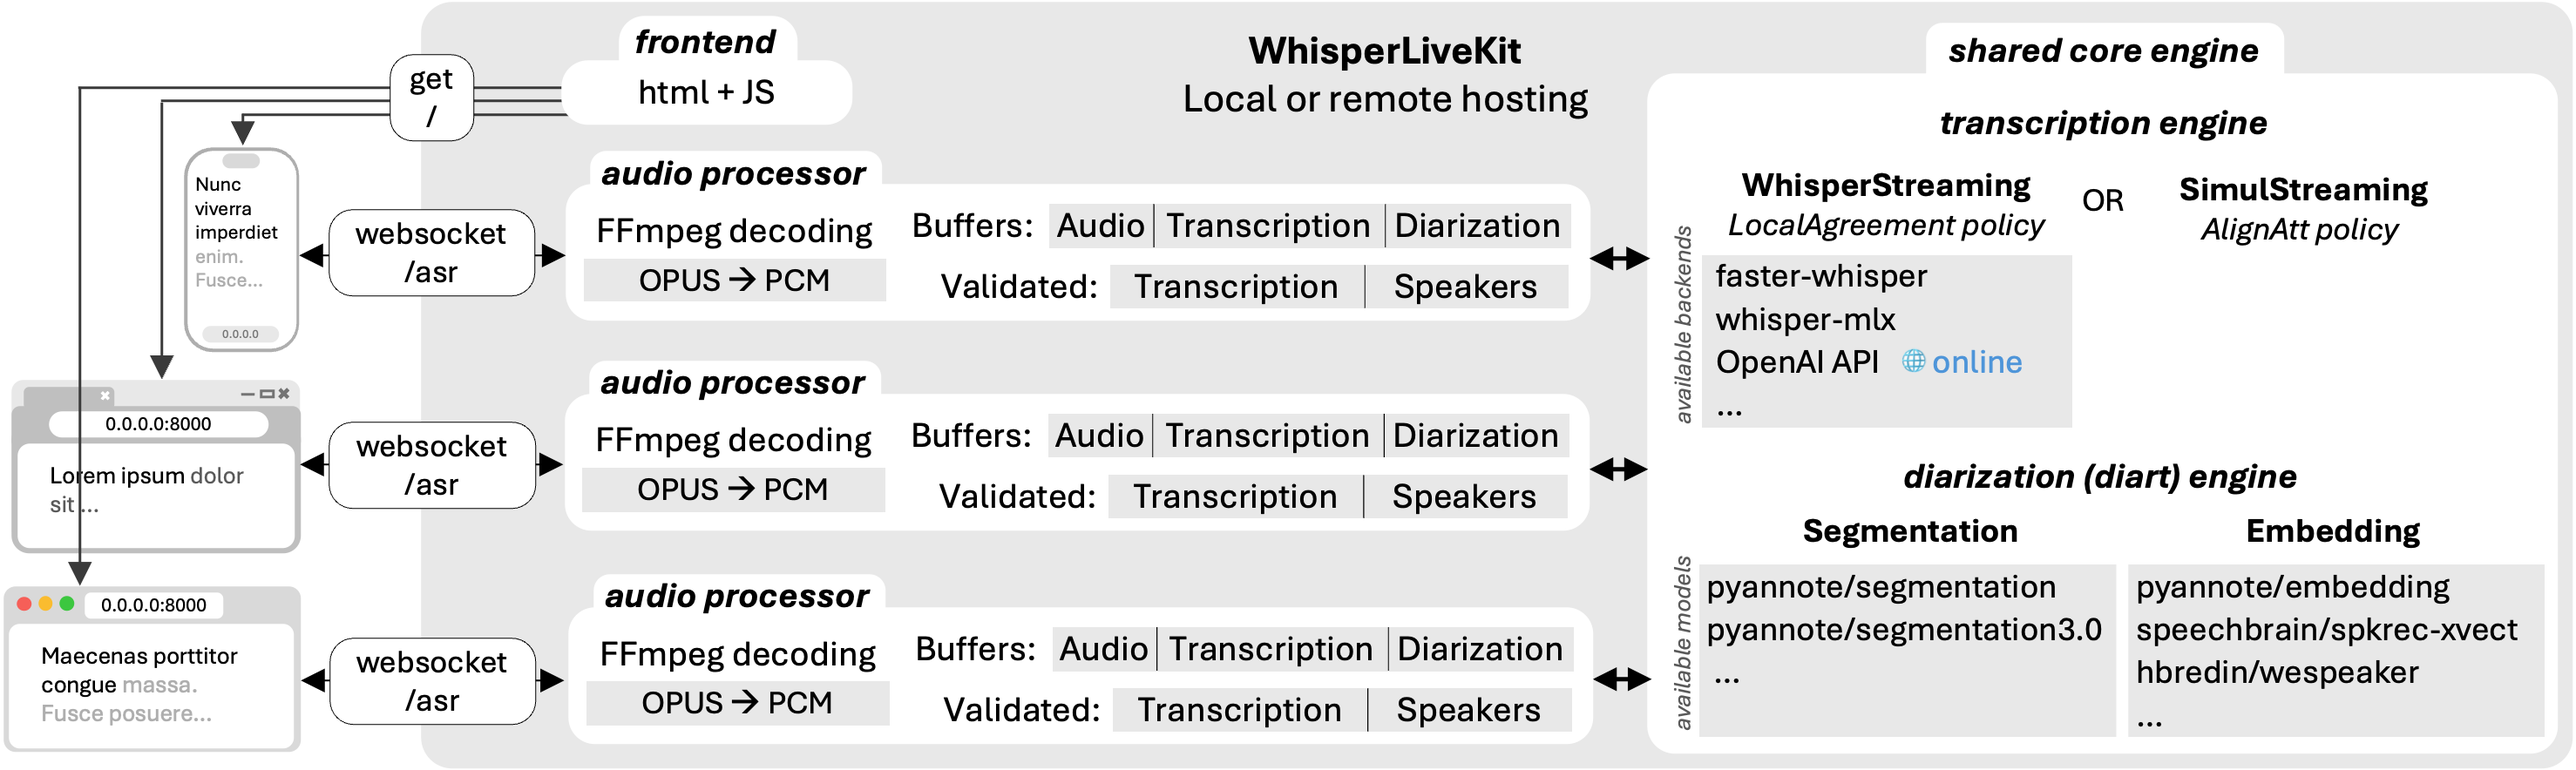
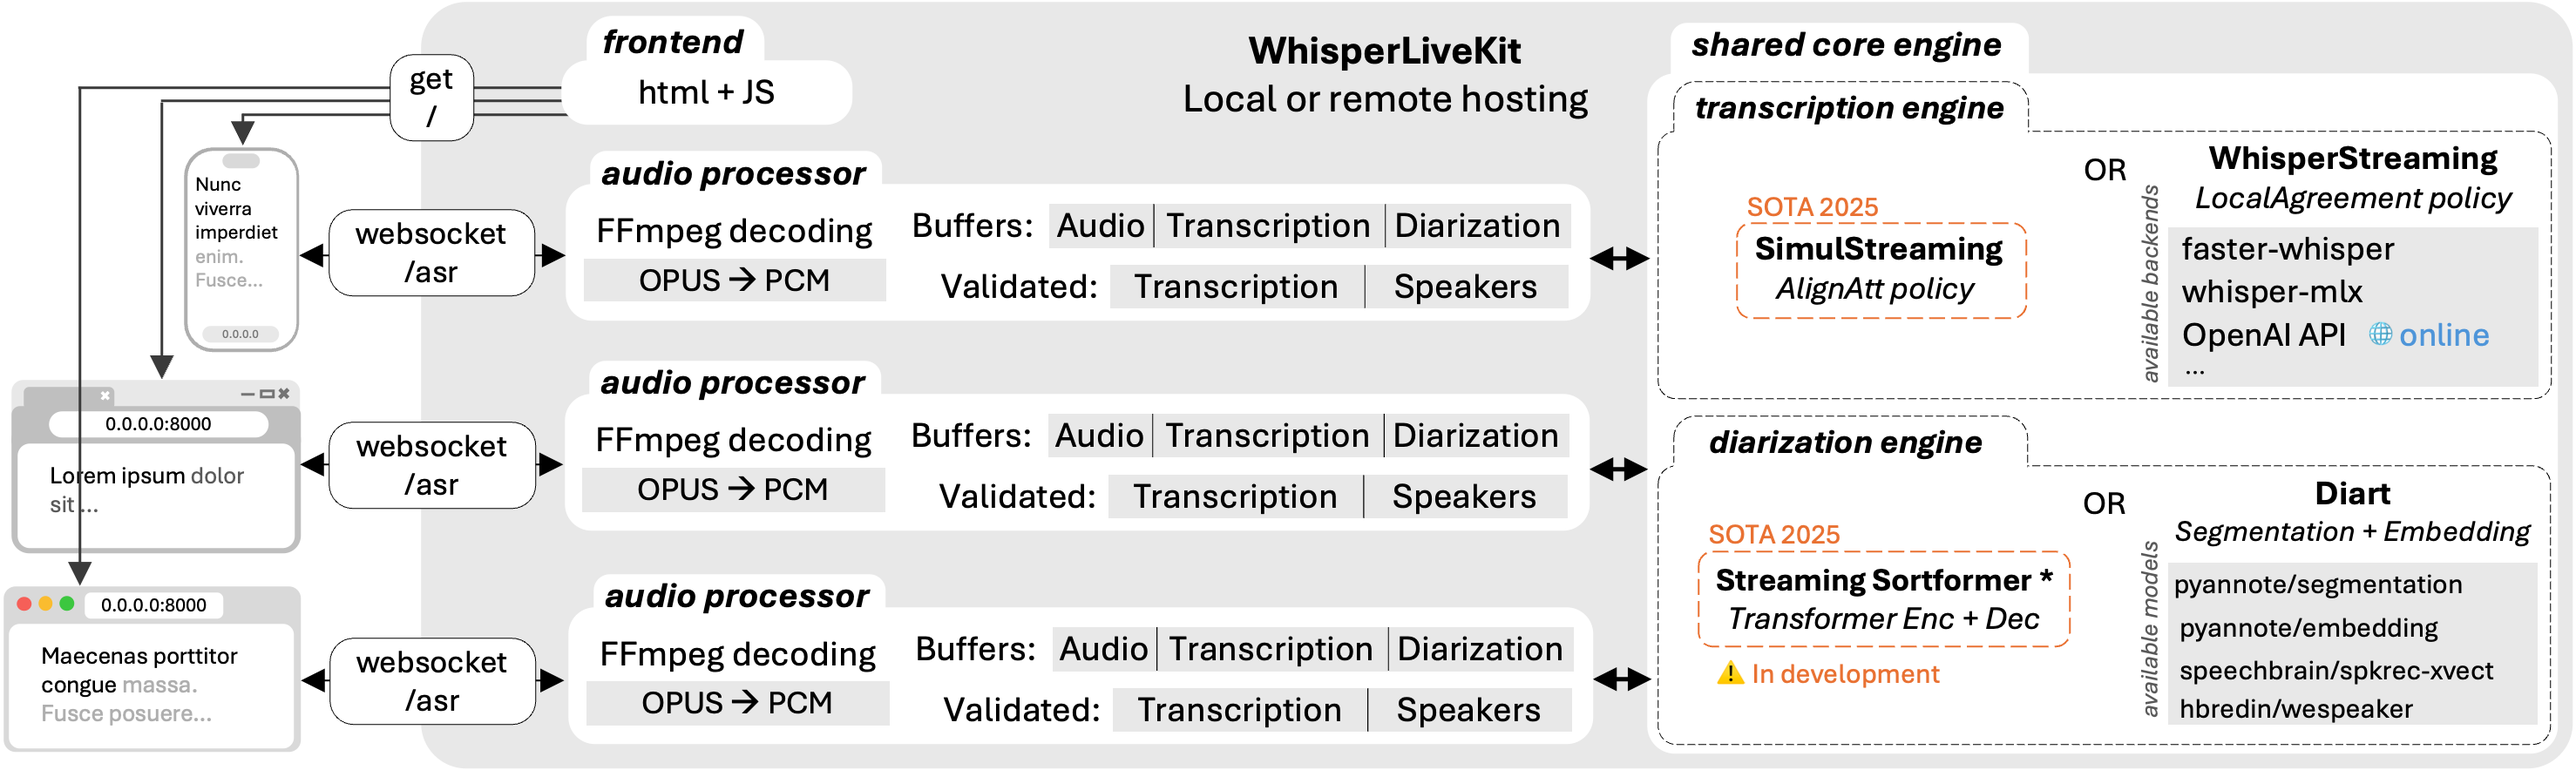
each SimulStreamingOnlineProcessor now contains PaddedAlignAttWhisper instance. SimulStreamingASR only contains loaded whisper model

diff --git a/whisperlivekit/simul_whisper/backend.py b/whisperlivekit/simul_whisper/backend.py
@@ -5,6 +5,8 @@ from typing import List, Tuple, Optional
 import logging
 from whisperlivekit.timed_objects import ASRToken, Transcript
 from whisperlivekit.simul_whisper.license_simulstreaming import SIMULSTREAMING_LICENSE
+from .whisper import load_model, tokenizer
+import os
 logger = logging.getLogger(__name__)
 
 try:
@@ -34,7 +36,11 @@ class SimulStreamingOnlineProcessor:
         
         self.committed: List[ASRToken] = []
         self.last_result_tokens: List[ASRToken] = []        
-        self.buffer_content = ""
+        self.model = PaddedAlignAttWhisper(
+            cfg=asr.cfg,
+            loaded_model=asr.whisper_model)
+        if asr.tokenizer:
+            self.model.tokenizer = asr.tokenizer
 
     def insert_audio_chunk(self, audio: np.ndarray, audio_stream_end_time: Optional[float] = None):
         """Append an audio chunk to be processed by SimulStreaming."""
@@ -50,17 +56,13 @@ class SimulStreamingOnlineProcessor:
             self.end = audio_stream_end_time
         else:
             self.end = self.cumulative_audio_duration            
-        self.asr.model.insert_audio(audio_tensor)
+        self.model.insert_audio(audio_tensor)
 
     def get_buffer(self):
-        """
-        Get the unvalidated buffer content.
-        """
-        buffer_end = self.end if hasattr(self, 'end') else None
         return Transcript(
             start=None, 
-            end=buffer_end, 
-            text=self.buffer_content, 
+            end=None, 
+            text='', 
             probability=None
         )
 
@@ -68,7 +70,7 @@ class SimulStreamingOnlineProcessor:
         # From the simulstreaming repo. self.model to self.asr.model
         pr = generation["progress"]
         if "result" not in generation:
-            split_words, split_tokens = self.asr.model.tokenizer.split_to_word_tokens(tokens)
+            split_words, split_tokens = self.model.tokenizer.split_to_word_tokens(tokens)
         else:
             split_words, split_tokens = generation["result"]["split_words"], generation["result"]["split_tokens"]
 
@@ -96,7 +98,7 @@ class SimulStreamingOnlineProcessor:
         Returns a tuple: (list of committed ASRToken objects, float representing the audio processed up to time).
         """
         try:            
-            tokens, generation_progress = self.asr.model.infer(is_last=self.is_last)
+            tokens, generation_progress = self.model.infer(is_last=self.is_last)
             ts_words = self.timestamped_text(tokens, generation_progress)
             
             new_tokens = []
@@ -162,15 +164,17 @@ class SimulStreamingASR():
             }
             self.model_path = model_mapping.get(modelsize, f'./{modelsize}.pt')
         
-        self.model = self.load_model(modelsize, cache_dir, model_dir)
+        self.model = self.load_model(modelsize)
         
         # Set up tokenizer for translation if needed
         if self.task == "translate":
-            self.set_translate_task()
+            self.tokenizer = self.set_translate_task()
+        else:
+            self.tokenizer = None
 
-    def load_model(self, modelsize, cache_dir, model_dir):
-        try:
-            cfg = AlignAttConfig(
+
+    def load_model(self, modelsize):
+        self.cfg = AlignAttConfig(
                 model_path=self.model_path,
                 segment_length=self.segment_length,
                 frame_threshold=self.frame_threshold,
@@ -185,36 +189,29 @@ class SimulStreamingASR():
                 init_prompt=self.init_prompt,
                 max_context_tokens=self.max_context_tokens,
                 static_init_prompt=self.static_init_prompt,
-            )            
-            model = PaddedAlignAttWhisper(cfg)
-            return model
-            
-        except Exception as e:
-            logger.error(f"Failed to load SimulStreaming model: {e}")
-            raise
+        )   
+        model_name = os.path.basename(self.cfg.model_path).replace(".pt", "")
+        model_path = os.path.dirname(os.path.abspath(self.cfg.model_path))
+        self.whisper_model = load_model(name=model_name, download_root=model_path)
+        
 
     def set_translate_task(self):
         """Set up translation task."""
-        try:
-            self.model.tokenizer = tokenizer.get_tokenizer(
-                multilingual=True,
-                language=self.model.cfg.language,
-                num_languages=self.model.model.num_languages,
-                task="translate"
-            )
-            logger.info("SimulStreaming configured for translation task")
-        except Exception as e:
-            logger.error(f"Failed to configure SimulStreaming for translation: {e}")
-            raise
+        return tokenizer.get_tokenizer(
+            multilingual=True,
+            language=self.model.cfg.language,
+            num_languages=self.model.model.num_languages,
+            task="translate"
+        )
 
-    def warmup(self, audio, init_prompt=""):
-        """Warmup the SimulStreaming model."""
-        try:
-            if isinstance(audio, np.ndarray):
-                audio = torch.from_numpy(audio).float()
-            self.model.insert_audio(audio)
-            self.model.infer(True)
-            self.model.refresh_segment(complete=True)
-            logger.info("SimulStreaming model warmed up successfully")
-        except Exception as e:
-            logger.exception(f"SimulStreaming warmup failed: {e}")
+    # def warmup(self, audio, init_prompt=""):
+    #     """Warmup the SimulStreaming model."""
+    #     try:
+    #         if isinstance(audio, np.ndarray):
+    #             audio = torch.from_numpy(audio).float()
+    #         self.model.insert_audio(audio)
+    #         self.model.infer(True)
+    #         self.model.refresh_segment(complete=True)
+    #         logger.info("SimulStreaming model warmed up successfully")
+    #     except Exception as e:
+    #         logger.exception(f"SimulStreaming warmup failed: {e}")

diff --git a/whisperlivekit/simul_whisper/license_simulstreaming.py b/whisperlivekit/simul_whisper/license_simulstreaming.py
@@ -1,18 +1,5 @@
 SIMULSTREAMING_LICENSE = f"""
-{"*"*80}
-SimulStreaming (https://github.com/ufal/SimulStreaming) is dual-licensed:
-
-🔹 Non-Commercial Use
-You may use SimulStreaming under the PolyForm Noncommercial License 1.0.0 if you obtain the code through the GitHub repository.  This license is free of charge and comes with no obligations for non-commercial users.
-
-🔸 Commercial Use
-Understanding who uses SimulStreaming commercially helps us improve and
-prioritize development. Therefore, we want to require registration of those who acquire a commercial licence.
-We plan to make the commercial licenceses affordable to SMEs and individuals. We are considering to provide commercial licenses either for free or for symbolic one-time fee, and maybe also provide additional support. You can share your preference via the questionnaire https://forms.cloud.microsoft/e/7tCxb4gJfB.
-You can also leave your contact there: https://forms.cloud.microsoft/e/7tCxb4gJfB to be notified when the commercial licenses become
-available.
-
-✉ Contact
-Dominik Macháček (https://ufal.mff.cuni.cz/dominik-machacek/), machacek@ufal.mff.cuni.cz
-{"*"*80}
+SimulStreaming backend is dual-licensed:
+• Non-Commercial Use: PolyForm Noncommercial License 1.0.0.
+• Commercial Use: Check SimulStreaming README (github.com/ufal/SimulStreaming) for more details.
 """

diff --git a/whisperlivekit/simul_whisper/simul_whisper.py b/whisperlivekit/simul_whisper/simul_whisper.py
@@ -33,11 +33,14 @@ import wave
 # - prompt -- static vs. non-static
 # - context
 class PaddedAlignAttWhisper:
-    def __init__(self, cfg: AlignAttConfig) -> None:
+    def __init__(self, cfg: AlignAttConfig, loaded_model=None) -> None:
         self.log_segments = 0
         model_name = os.path.basename(cfg.model_path).replace(".pt", "")
         model_path = os.path.dirname(os.path.abspath(cfg.model_path))
-        self.model = load_model(name=model_name, download_root=model_path)
+        if loaded_model:
+            self.model = loaded_model
+        else:
+            self.model = load_model(name=model_name, download_root=model_path)
 
         logger.info(f"Model dimensions: {self.model.dims}")
 

diff --git a/whisperlivekit/core.py b/whisperlivekit/core.py
@@ -109,7 +109,7 @@ class TranscriptionEngine:
 
             else:
                 self.asr, self.tokenizer = backend_factory(self.args)
-                warmup_asr(self.asr, self.args.warmup_file)
+                warmup_asr(self.asr, self.args.warmup_file) #for simulstreaming, warmup should be done in the online class not here
 
         if self.args.diarization:
             from whisperlivekit.diarization.diarization_online import DiartDiarization

diff --git a/README.md b/README.md
@@ -13,13 +13,16 @@
 <a href="https://github.com/QuentinFuxa/WhisperLiveKit/blob/main/LICENSE"><img alt="License" src="https://img.shields.io/badge/License-MIT/Dual Licensed-dark_green"></a>
 </p>
 
-Built on [WhisperStreaming](https://github.com/ufal/whisper_streaming) and [SimulStreaming](https://github.com/ufal/SimulStreaming), WhisperLiveKit provides real-time speech transcription in your browser, with a ready-to-use backend and a simple, customizable frontend. ✨
+
+WhisperLiveKit brings real-time speech transcription directly to your browser, with a ready-to-use backend+server and a simple frontend. ✨w
+
+Built on [SimulStreaming](https://github.com/ufal/SimulStreaming) (SOTA 2025) and [WhisperStreaming](https://github.com/ufal/whisper_streaming) (SOTA 2023) for transcription, plus [Streaming Sortformer](https://arxiv.org/abs/2507.18446) (SOTA 2025) and [Diart](https://github.com/juanmc2005/diart) (SOTA 2021) for diarization.
 
 
 ### Key Features
 
 - **Real-time Transcription** - Locally (or on-prem) convert speech to text instantly as you speak
-- **Speaker Diarization** - Identify different speakers in real-time using [Diart](https://github.com/juanmc2005/diart)
+- **Speaker Diarization** - Identify different speakers in real-time. (⚠ backend Streaming Sortformer in developement)
 - **Multi-User Support** - Handle multiple users simultaneously with a single backend/server
 - **Automatic Silence Chunking** – Automatically chunks when no audio is detected to limit buffer size
 - **Confidence Validation** – Immediately validate high-confidence tokens for faster inference (WhisperStreaming only)
